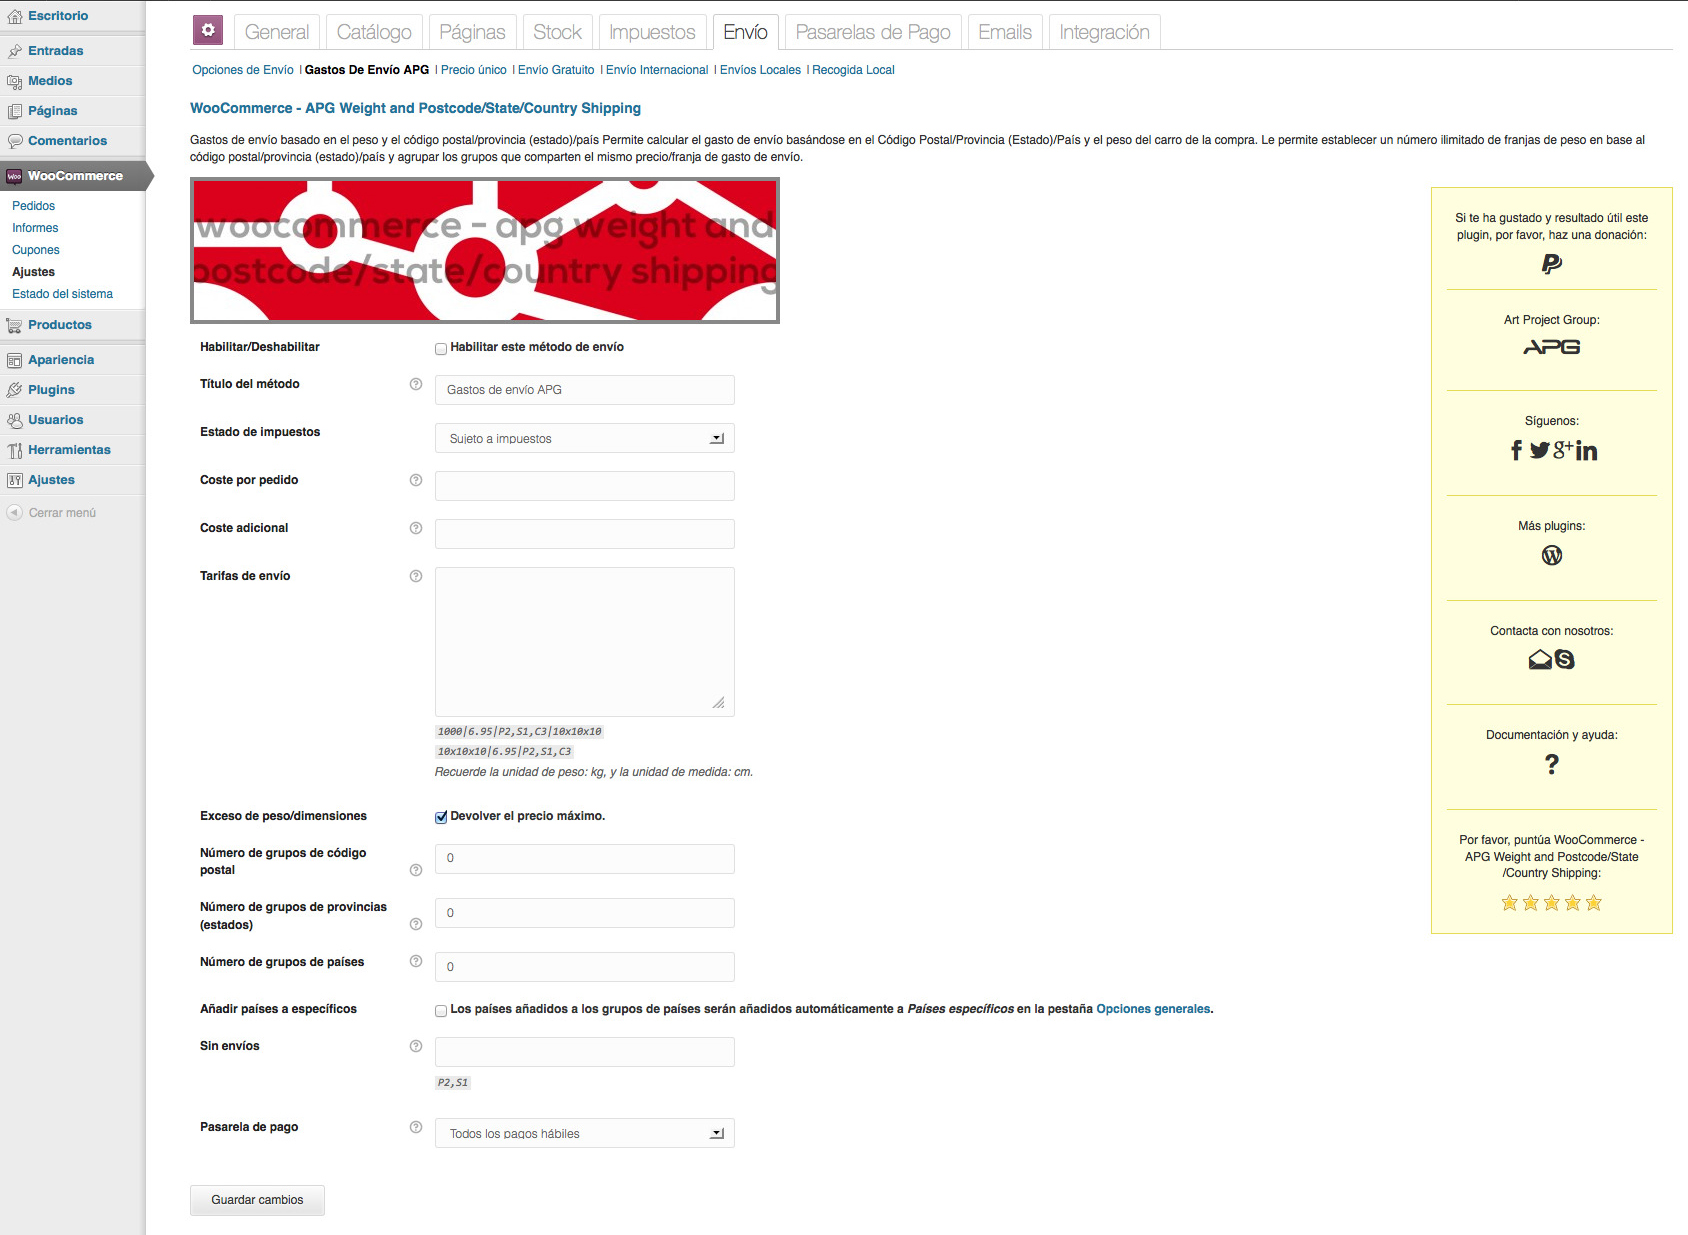
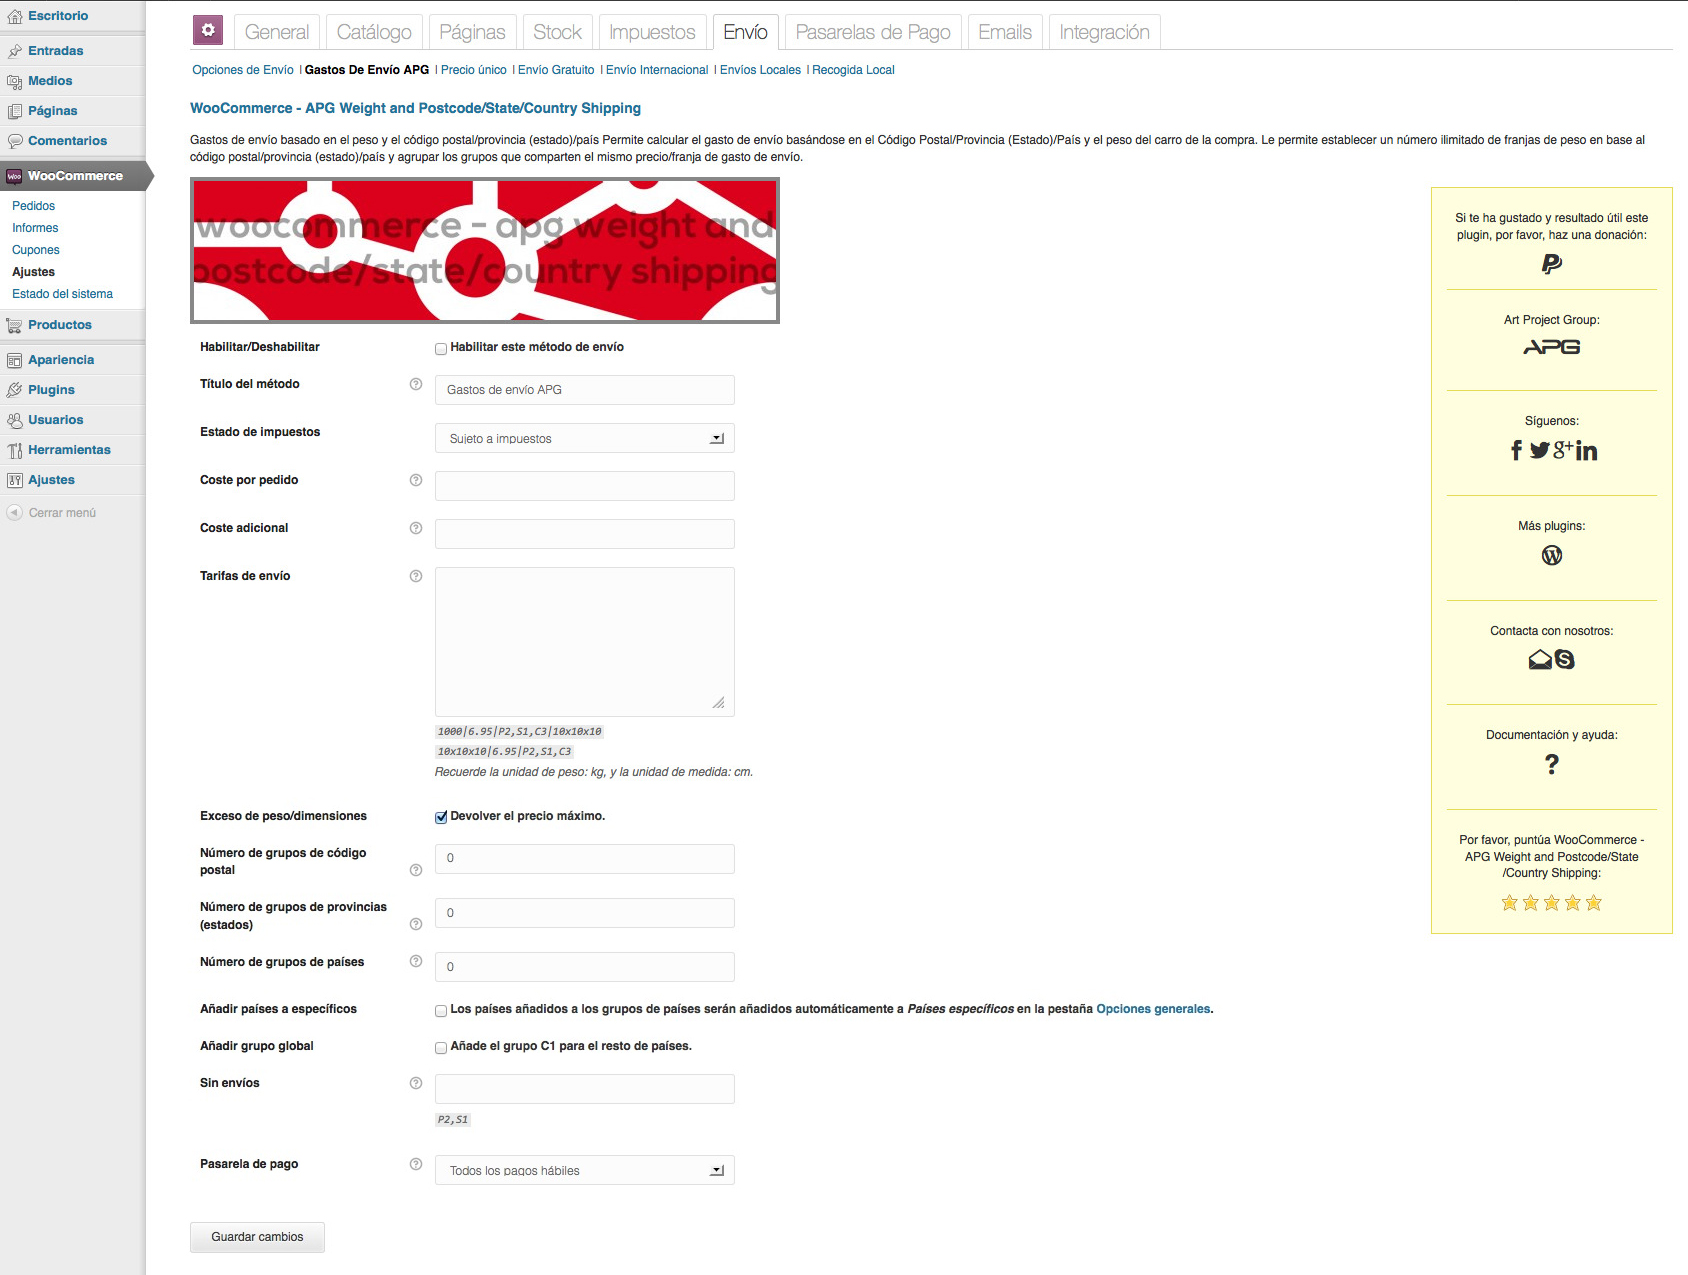
Versión 0.8
git-svn-id: http://plugins.svn.wordpress.org/woocommerce-apg-weight-and-postcodestatecountry-shipping/trunk@818106 b8457f37-d9ea-0310-8a92-e5e31aec5664

diff --git a/apg-shipping.php b/apg-shipping.php
@@ -1,7 +1,7 @@
 <?php
 /*
 Plugin Name: WooCommerce - APG Weight and Postcode/State/Country Shipping
-Version: 0.7.2
+Version: 0.8
 Plugin URI: http://wordpress.org/plugins/woocommerce-apg-weight-and-postcodestatecountry-shipping/
 Description: Add to WooCommerce the calculation of shipping costs based on the order weight and postcode, province (state) and country of customer's address. Lets you add an unlimited shipping rates. Created from <a href="http://profiles.wordpress.org/andy_p/" target="_blank">Andy_P</a> <a href="http://wordpress.org/plugins/awd-weightcountry-shipping/" target="_blank"><strong>AWD Weight/Country Shipping</strong></a> plugin and the modification of <a href="http://wordpress.org/support/profile/mantish" target="_blank">Mantish</a> publicada en <a href="https://gist.github.com/Mantish/5658280" target="_blank">GitHub</a>.
 Author URI: http://www.artprojectgroup.es/
@@ -79,17 +79,13 @@ function apg_shipping_inicio() {
 
 		//Inicializa los datos
         function init() {
-			$this->admin_page_heading       = __('Weight based shipping', 'apg_shipping');
-			$this->admin_page_description   = __('Define shipping by weight and postcode/state/country', 'apg_shipping');
-
 			add_action('woocommerce_update_options_shipping_' . $this->id, array($this, 'process_admin_options'));
 			add_action('woocommerce_update_options_shipping_' . $this->id, array($this, 'sincroniza_paises'));
 
-			$this->init_form_fields();
 			$this->init_settings();
-			
-			$campos = array('enabled', 'title', 'postal_group_no', 'state_group_no', 'country_group_no', 'sync_countries', 'tax_status', 'fee', 'cargo', 'maximo', 'grupos_excluidos', 'options', 'pago');
+			$campos = array('enabled', 'title', 'postal_group_no', 'state_group_no', 'country_group_no', 'sync_countries', 'tax_status', 'fee', 'cargo', 'maximo', 'grupos_excluidos', 'options', 'pago', 'global');
 			foreach ($campos as $campo) $this->$campo = isset($this->settings[$campo]) ? $this->settings[$campo] : '';
+			$this->init_form_fields();
 			
 			$this->availability		= 'specific';
 			$this->type				= 'order';
@@ -204,6 +200,12 @@ function apg_shipping_inicio() {
 					'label'			=> __('Countries added to country groups will be automatically added to <em>Allowed Countries</em> in <a href="admin.php?page=woocommerce_settings&tab=general">General settings</a> tab.', 'apg_shipping'),
 					'default'		=> 'no',
 				),
+				'global' => array(
+					'title'			=> __('Add global group', 'apg_shipping'),
+					'type'			=> 'checkbox',
+					'label'			=> sprintf(__('Add group C%s for the other countries.', 'apg_shipping'), $this->country_group_no + 1),
+					'default'		=> 'no',
+				),
 				'grupos_excluidos' => array(
 					'title'			=> __('No shipping', 'apg_shipping'),
 					'type'			=> 'text',
@@ -311,8 +313,8 @@ function apg_shipping_inicio() {
 			global $woocommerce;
 
 			$grupo = $this->dame_grupos($paquete);
+			if (!$grupo) return false;
 			$tarifas = $this->dame_tarifas($grupo);
-			
 			$grupos_excluidos = explode(',', preg_replace('/\s+/', '', $this->grupos_excluidos));
 			foreach ($grupos_excluidos as $grupo_excluido) if ($grupo_excluido == $grupo) return false; //No atiende a los grupos excluidos
 
@@ -390,13 +392,16 @@ function apg_shipping_inicio() {
 					}
 					else 
 					{
-						if (in_array($paquete['destination'][$nombre], $this->settings[$letra . $contador])) $grupo = $letra . $contador;
+						if (isset($paquete['destination'][$nombre]) && in_array($paquete['destination'][$nombre], $this->settings[$letra . $contador])) $grupo = $letra . $contador;
 					}
 				    $contador++;
 				}
 	
     	        if (isset($grupo)) return $grupo;				
 			}
+			$grupo = 'C' . ($this->country_group_no + 1);
+			if (get_option('woocommerce_allowed_countries') == 'all' && $this->global == 'yes') return $grupo;
+			return NULL;
         }
 
 		//Devuelve la tarifa aplicable al grupo/s seleccionado/s
